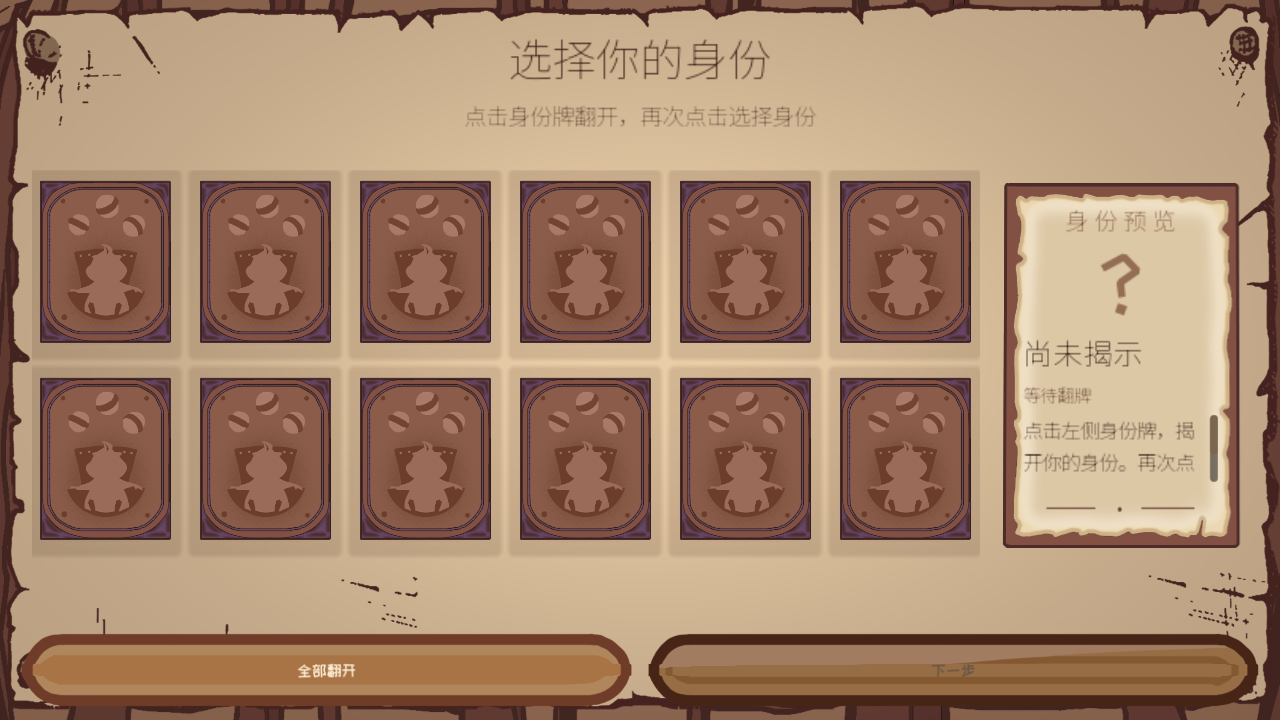
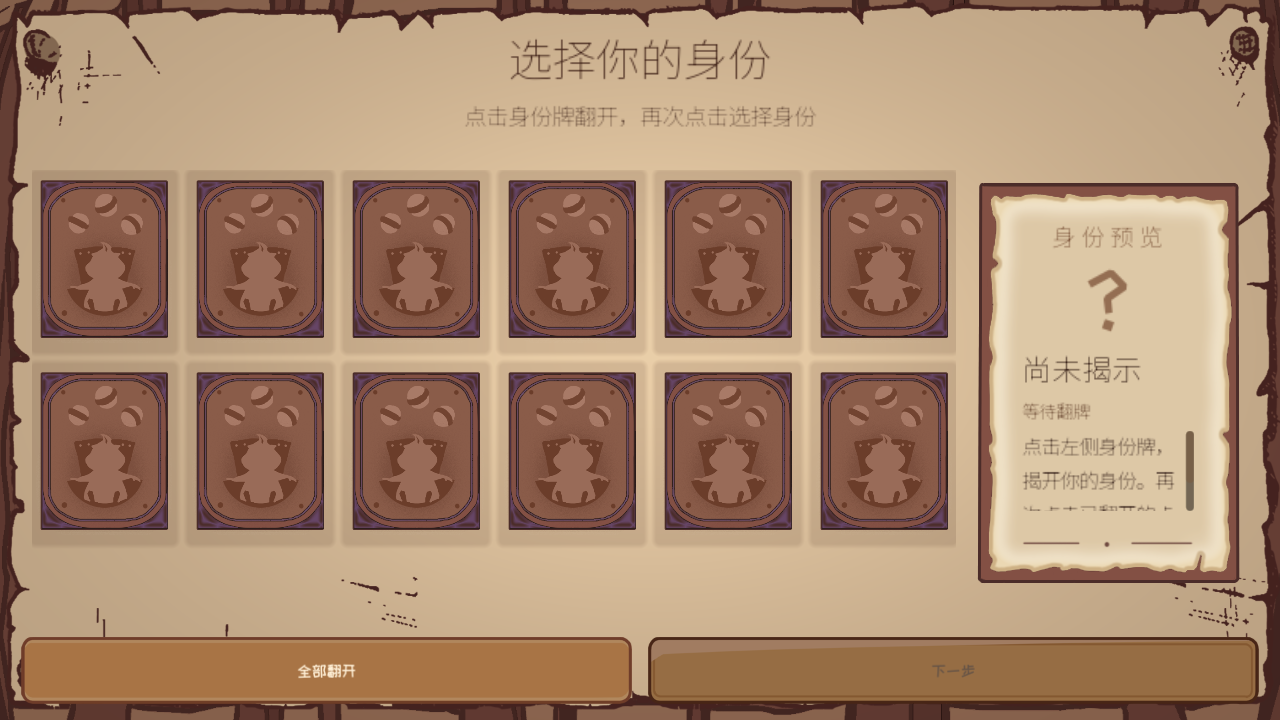
fix(identity): normalize button nine-slice and inset detail text

diff --git a/docs/1. Identify/身份系统_ID-16-VISUAL-FIX_2026-10-20_log.md b/docs/1. Identify/身份系统_ID-16-VISUAL-FIX_2026-10-20_log.md
@@ -32,3 +32,10 @@
 - Godot 4.7.2 正式 `IdentitySelection` 场景以真实窗口 1280×720 / 1920×1080 渲染：每档 12 卡完整显示、整行按钮无裁切，图像见同目录 evidence。
 - 行为验证通过：`ID16_VISUAL_REWORK_FUNCTION_PASS 12 cards / flip / select / next / reveal-all / long-description-scroll`。
 - 本轮仍保持 PR #327 Draft，待人工视觉确认；无身份系统存档或战斗逻辑修改。
+
+## 2026-10-20 · 第四轮返工：按钮边框比例及详情文字安全区
+- 根因：旧九宫格直接对 391×359 原始按钮图片取边距（左右各 88px），在超过 900px 的通栏宽度下角部变成夸张胶囊；正文和空白卡美术边框仅相隔约十几像素，滚动文本触碰装饰线。
+- 按钮：仍引用 `button_primary.png`、`button_secondary.png`；运行时先裁切正式按钮美术有效区域 (27,66,391,359)，缩放成 112×103 小尺寸九宫格素材，四边切分 23px 后仅水平延展中段，修复巨大圆角和扁平化变形。主/次按钮继续各占底部一半，间距与按键状态保持。
+- 详情：`IdentityDetailsPanel` 的纸张安全边距提高为左右 36px、顶部 38px，新增 `InnerPadding` 独立 MarginContainer（左右 18px、上 10px、下 12px），避免描述文字压到纸边。保留原图边框与滚动行为；略微扩大详情宽度到 280–365px，高度 425px（紧凑）／565px（常规），缩短图案预览高度让正文有更多实际空间。
+- 本次恢复原有 Shader 暗角与中心暖色提亮、卡牌轻投影不变。正式 Godot 4.7.2 实际窗口 1280×720 与 1920×1080 再次截图比对，按钮、卡面、详情全部可见。行为测试打印 `ID16_VISUAL_REWORK_FUNCTION_PASS 12 cards / flip / select / next / reveal-all / long-description-scroll`。
+- 修改范围仅 `ui/identity_setup/identity_selection.gd` 与 `ui/identity_setup/identity_selection.tscn`；本 PR 继续 Draft，等待人工美术验收。
